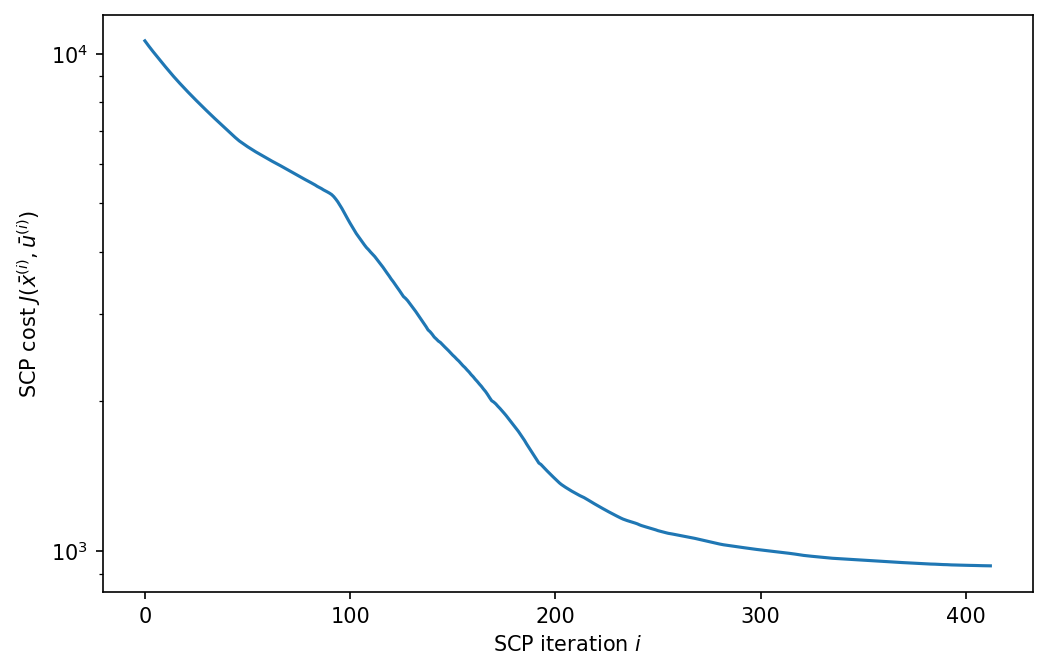
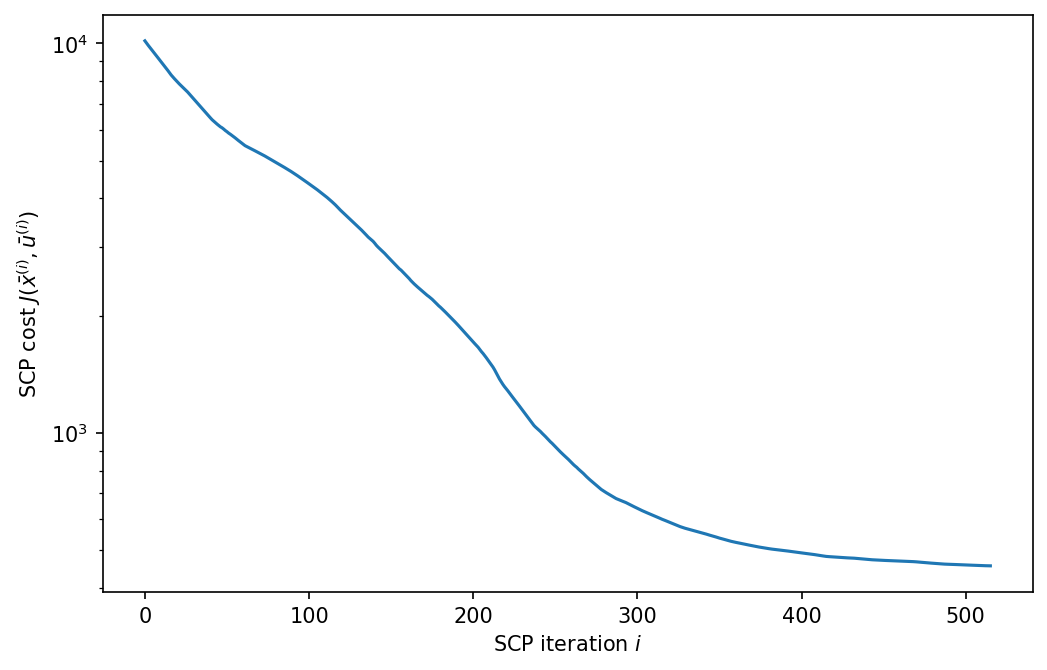
Add OSQP solver choice, update nominal examples. OSQP gives a better solution, and in the diff drive case, it is twice as fast. Will propagate this update to parent repos.

diff --git a/src/torch_traj_utils/scp_solver.py b/src/torch_traj_utils/scp_solver.py
@@ -46,6 +46,8 @@ class SolverParams:
     u_max: np.ndarray
     # max solve time
     max_solve_secs: float
+    # solver type: SCS or OSQP
+    solver_type: str
     # deal with some interface migration.
     def __setstate__(self, state):
         self.__dict__.update(state)
@@ -53,6 +55,8 @@ class SolverParams:
             self.cvxpy_eps = 1e-4
         if 'max_solve_secs' not in self.__dict__:
             self.max_solve_secs = -1.0
+        if 'solver_type' not in self.__dict__:
+            self.solver_type = "SCS"
 
 class SCPSolver:
     # basic SCP parameters (see the init method for docstrings)
@@ -218,12 +222,26 @@ class SCPSolver:
         J = np.zeros(self.params.max_iters + 1)
         J[0] = np.inf
         start_time = time.time()
+        other_status = None
         for i in range(self.params.max_iters):
             self.linearize_dynamics(s, u)
             self.linearize_constraints(s, u)
             self.s_prev_param.value = s
             self.u_prev_param.value = u
-            self.prob.solve(solver=cvx.SCS, warm_start=True, eps=self.params.cvxpy_eps, max_iters=40000)
+            if self.params.solver_type == "SCS":
+                self.prob.solve(solver=cvx.SCS, warm_start=True, eps=self.params.cvxpy_eps, max_iters=40000)
+            elif self.params.solver_type == "OSQP":
+                self.prob.solve(solver=cvx.OSQP,
+                                warm_start=True,
+                                eps_abs=self.params.cvxpy_eps,
+                                eps_rel=self.params.cvxpy_eps,
+                                max_iter=40000,
+                                polish=True,
+                                verbose=False)
+            else:
+                other_status = "Unknown solver!"
+                print("SCP solve failed: " + other_status)
+                break
             if self.prob.status != "optimal":
                 print("SCP solve failed. CVXPY problem status: " + self.prob.status)
                 break
@@ -246,6 +264,8 @@ class SCPSolver:
         elapsed_time = end_time - start_time
         iterations = i
         print(f"Solve time: {elapsed_time:.4f} seconds")
+        if other_status is not None:
+            return s, u, J, converged, other_status, elapsed_time, iterations
         return s, u, J, converged, self.prob.status, elapsed_time, iterations
 
     def discretize(self, f:Callable, dt: float) -> Callable:

diff --git a/scripts/run_cartpole_force.py b/scripts/run_cartpole_force.py
@@ -33,18 +33,19 @@ def main():
                               rho=0.05,
                               rho_u=0.02,
                               eps=0.005,
-                              cvxpy_eps=1e-4,
+                              cvxpy_eps=1e-3,
                               max_iters=10000,
                               u_max=np.array([1.77]),
                               s_max=np.array([0.44 / 2.0, 1000, 0.8, 1000])[None, :],
-                              max_solve_secs=-1.0)
+                              max_solve_secs=-1.0,
+                              solver_type="OSQP")
 
     # goal state: pole upright
     s_goal = np.array([0.0, np.pi, 0.0, 0.0])
     # start state: pole down-ish
     s0 = np.array([0.0, 0.0, 0.0, 0.0])
 
-    scenario = TrajectoryScenario(s_goal=s_goal, s0=s0, t0=0.0, T=4.0)
+    scenario = TrajectoryScenario(s_goal=s_goal, s0=s0, t0=0.0, T=2.0)
 
     expert = CartpoleForceSwingupExpert(ep=env_params, sp=solver_params)
 

diff --git a/scripts/run_cartpole_velocity.py b/scripts/run_cartpole_velocity.py
@@ -32,11 +32,12 @@ def main():
                               rho=0.05,
                               rho_u=0.02,
                               eps=0.005,
-                              cvxpy_eps=1e-4,
+                              cvxpy_eps=1e-3,
                               max_iters=1000,
                               u_max=np.array([0.8]),
                               s_max=np.array([0.44 / 2.0, 1000, 0.8, 5*np.pi])[None, :],
-                              max_solve_secs=-1.0)
+                              max_solve_secs=-1.0,
+                              solver_type="OSQP")
 
     # goal state: pole upright
     s_goal = np.array([0.0, np.pi, 0.0, 0.0])

diff --git a/scripts/run_diff_drive.py b/scripts/run_diff_drive.py
@@ -52,7 +52,8 @@ def main():
                               max_iters=10000,
                               u_max=np.array([max_robot_v, max_robot_omega])[None,:],
                               s_max=np.array([]),
-                              max_solve_secs=-1.0)
+                              max_solve_secs=-1.0,
+                              solver_type="OSQP")
 
     t = np.arange(0.0, T + dt, dt)
     N = t.size - 1
